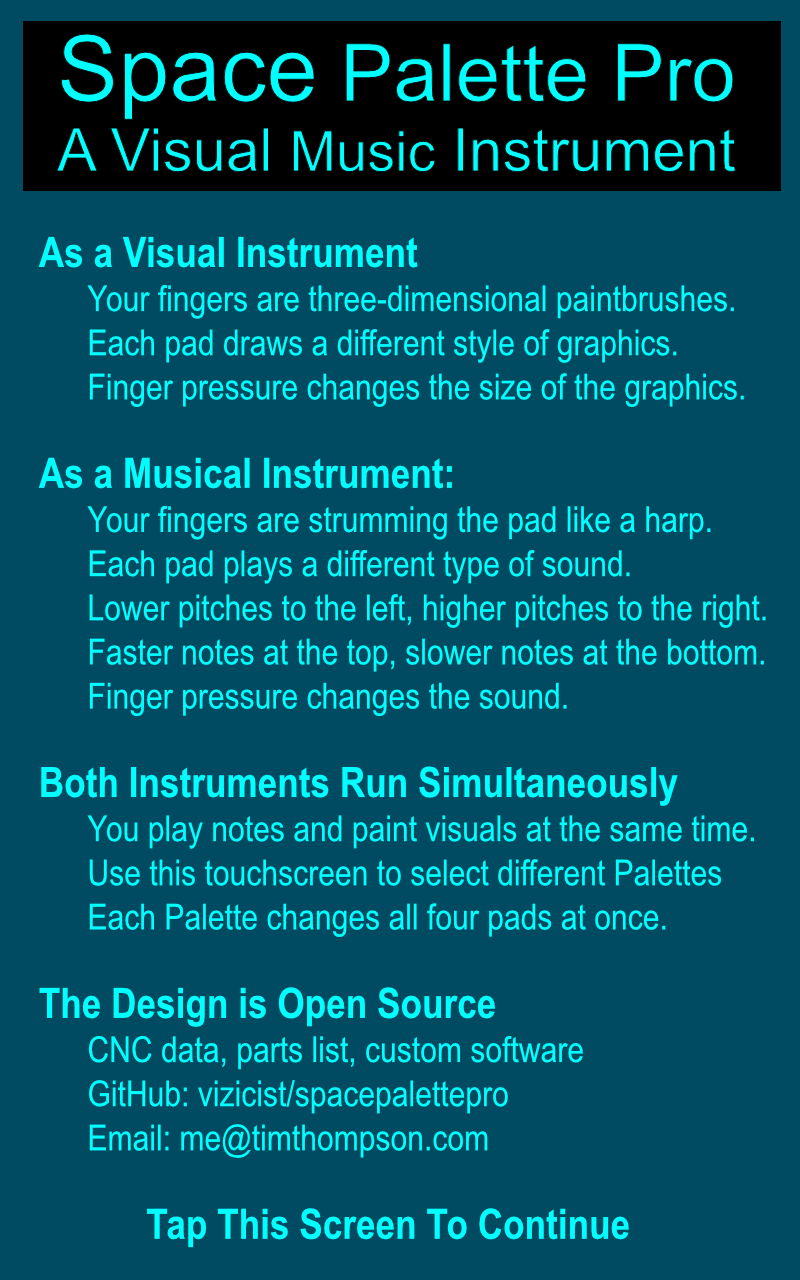
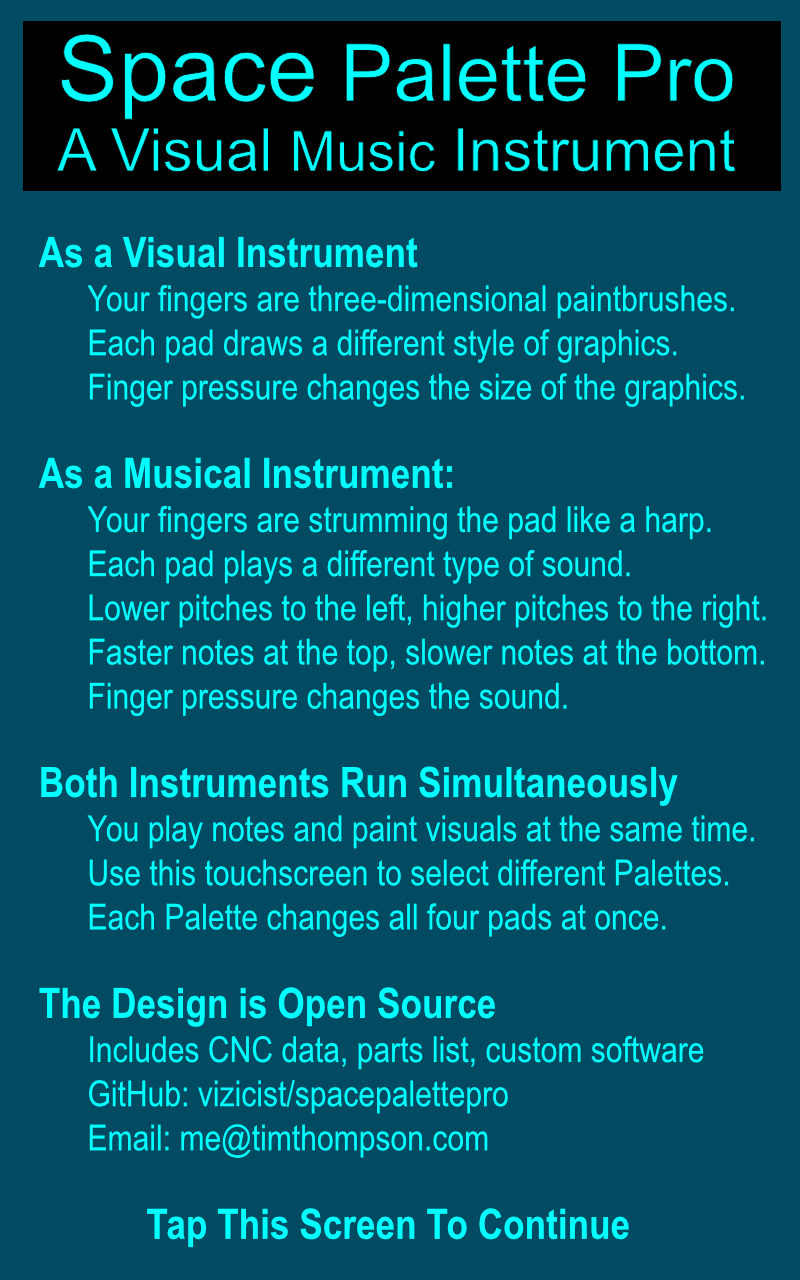
Final tweaks, might be done with 5.7 release

Changed region(s): [[0.0938, 0.8125, 0.875, 0.8438]]

diff --git a/python/palette_gui.py b/python/palette_gui.py
@@ -227,8 +227,12 @@ class ProGuiApp(tk.Tk):
                 # switch to a new Mode 
                 if self.nextMode == "layout":
                     self.initLayout()
-                    self.nextMode = "attract"
-                    self.startAttractMode()
+                    if self.resetAfterInactivity>0:
+                        self.nextMode = "attract"
+                        self.startAttractMode()
+                    else:
+                        self.nextMode = "normal"
+                        self.startNormalMode()
 
                 elif self.nextMode == "help":
                     self.startHelpMode()